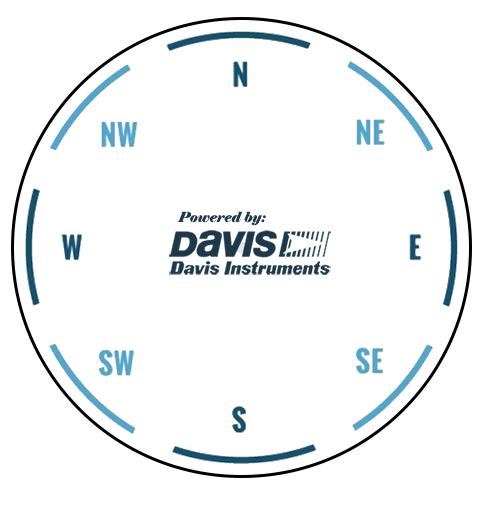
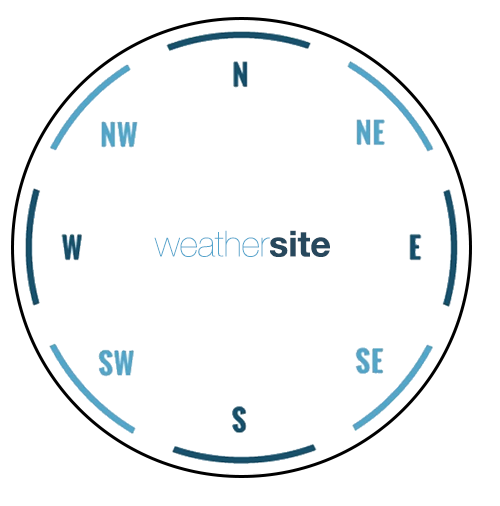
Re-branding

Changed region(s): [[0.3, 0.415, 0.66, 0.5632]]

diff --git a/app.js b/app.js
@@ -122,7 +122,7 @@ var avgDirection = 0
 var inTemp = 0;
 var inHum = 0;
 var outTemp = 0;
-var outTempLastReading = 0;
+var outTempLastReading = null;
 var outHum = 0;
 var outDewPt = 0;
 var outWindChill = 0;
@@ -241,7 +241,7 @@ http.get('http://'+myWLLIp+'/v1/current_conditions',function(resp){
 		avgDirection = Math.round(obj.data.conditions[0].wind_dir_scalar_avg_last_10_min);
 		inTemp = Math.round(obj.data.conditions[obj.data.conditions.length-2].temp_in);
 		inHum = Math.round(obj.data.conditions[obj.data.conditions.length-2].hum_in);
-		outTemp = Math.round(obj.data.conditions[0].temp);
+		outTempLastReading = outTemp = Math.round(obj.data.conditions[0].temp);
 		outTempLastReading = obj.data.conditions[0].temp;
 		outHum = Math.round(obj.data.conditions[0].hum);
 		outDewPt = Math.round(obj.data.conditions[0].dew_point);
@@ -298,14 +298,18 @@ setInterval(function(){
 					inBarometerTrend = 'Rising'
 				else
 					inBarometerTrend = 'Steady'
+
+			   if (outTempLastReading == null)
+				   outTempLastReading == obj.data.conditions[0].temp;
 			   if (obj.data.conditions[0].temp > outTempLastReading)
-					   outTempTrend = 1;
+				   outTempTrend = 1;
 			   else
 			   if (obj.data.conditions[0].temp < outTempLastReading)
 				   outTempTrend = -1;
 			   else
 				   outTempTrend = 0;
 			   outTempLastReading = obj.data.conditions[0].temp;
+
 			   console.log('starting WLL UDP refresh request')
 			   http.get('http://'+myWLLIp+'/v1/real_time?duration=300',function(resp){
 				   data = '';
